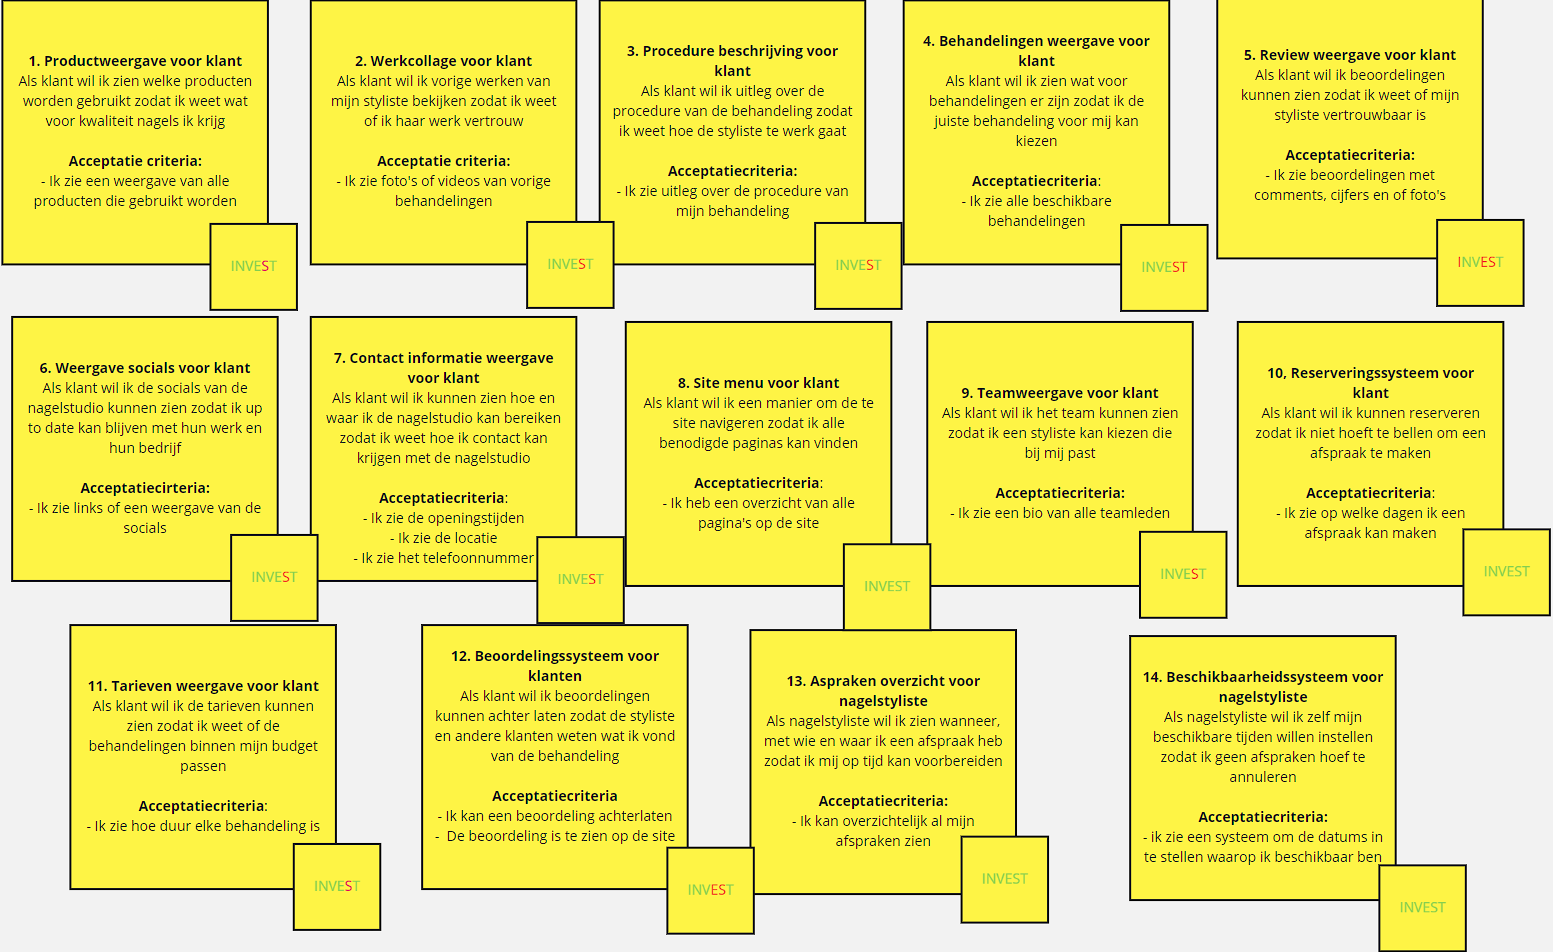
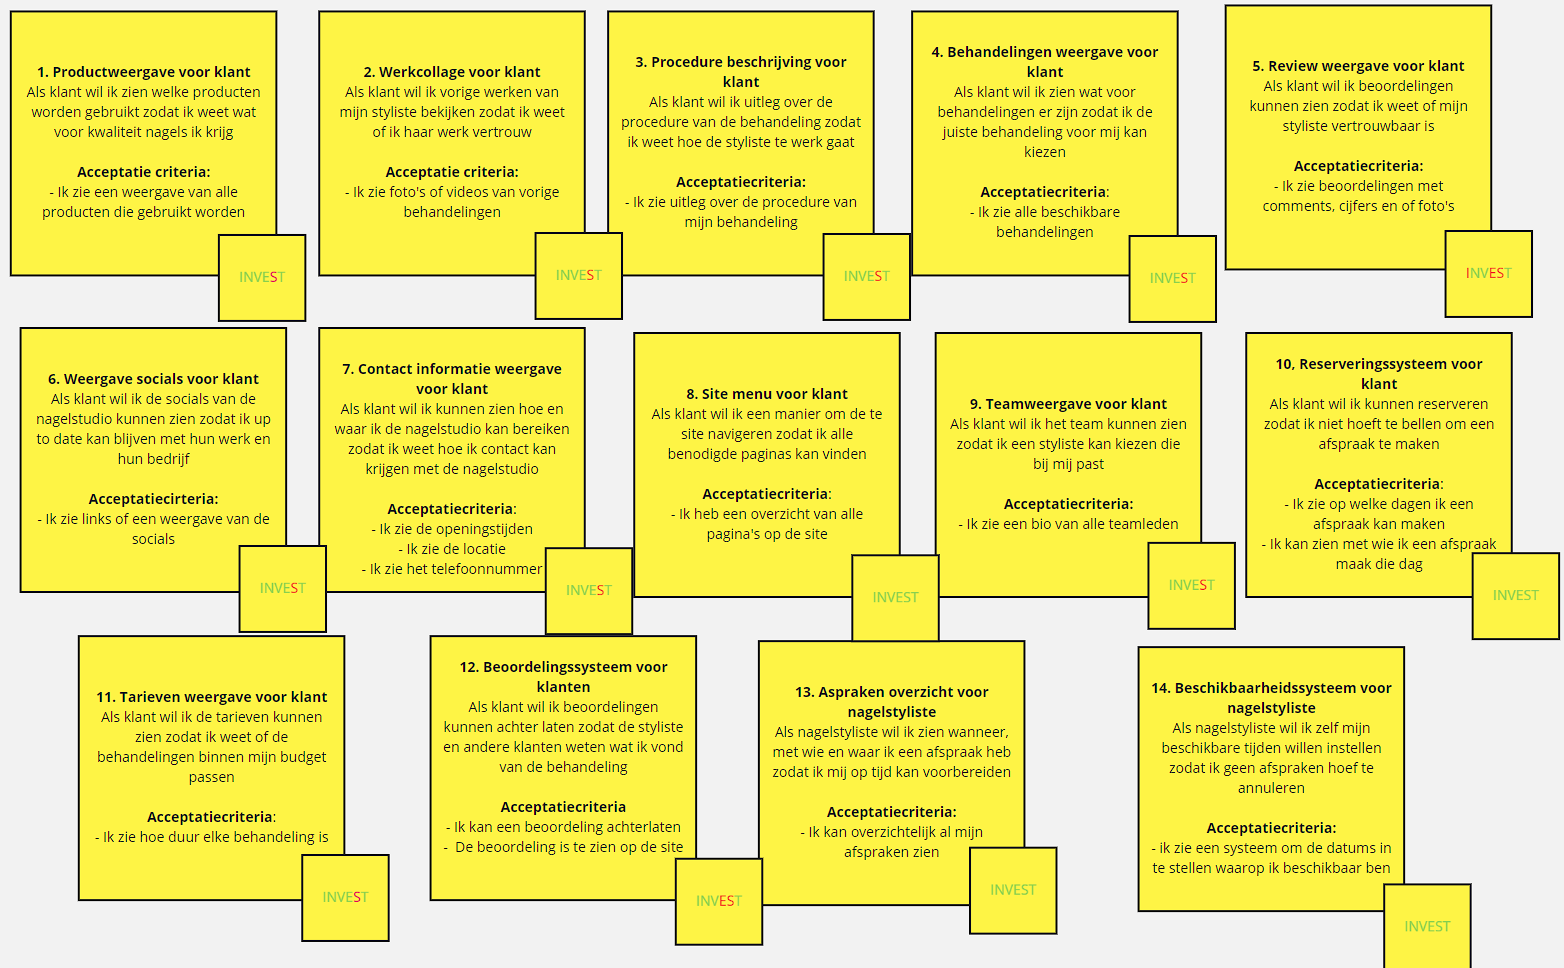
Sitemap

Changed region(s): [[0.0, 0.0, 1.0, 1.0], [0.7109, 0.8529, 0.9581, 1.0], [0.7418, 0.7006, 0.8963, 0.8225]]

diff --git a/new-interactie-ontwerpen/new-interactie-ontwerpen.md b/new-interactie-ontwerpen/new-interactie-ontwerpen.md
@@ -1,14 +1,45 @@
 # Interactie Ontwerpen
 ## User Stories
 ![User Stories](new-user-stories.png)
-Mijn user stories bevatten veel stories die te klein zij, het zijn geen dingen die de site per se nodig heeft om te werke. Maar ze zijn wel waardevol en zouden de gebruikservaring en de functionele waarde van de site verbeteren. Verder is er een story over een review systeem, onze groep heeft hier nog geen ervaring mee we kunnen dus niet inschatten hoelang het zou duren om zo een systeem te maken. Het maken van de site menu is geen kleine taak, omdat bij het maken van een goeie site menu er taken komen zoals een site map maken. 
+Mijn user stories bevatten veel stories die te klein zij, het zijn geen dingen die de site per se nodig heeft om te werke. Maar ze zijn wel waardevol en zouden de gebruikservaring en de functionele waarde van de site verbeteren. Ook zouden sommige van deze kleine user stories samengevoegd kunnen worden bijvoorbeeld zouden de procedure weergave en de behandelingen weergave één story kunnen worden omdat elke behandeling een andere procedure heeft, het kunnen zien van de procedure word dan een een DoD voor de story. Ook zie ik dit terug bij de socials story en de contact story maar ook de story van de behandelingen en de prijzen kunnen samengevoegd worden.
+![Behandeling user story en contact user story](verbeterde-stories.png) Verder is er een story over een review systeem, onze groep heeft hier nog geen ervaring mee we kunnen dus niet inschatten hoelang het zou duren om zo een systeem te maken. Het maken van de site menu is geen kleine taak, omdat bij het maken van een goeie site menu er taken komen zoals een site map maken. 
 ## MoSCoW
 |Must haves|Should Haves|Could Haves|Would Haves|
 |---|---|---|---|
-|8. Site menu voor klant |4. Behandeling weergave voor klant | 1. Productweergave voor klant|5. Review weergave vooor klant  |
-|10. Reserveringssysteem voor klant |7. Contact informatie weergave voor klant |2. Werkcollage voor klant | |
-|13. Afspraken overzicht voor nagelstyliste |11. Tarieven weergave voor klant |3. Procedure beschrijving voor klant | |
-|14. Beschikbaarheidssysteem voor nagelstyliste |  |6. Weergave socials voor klant ||
-| | |9. Teamweergave voor klant | |
-| | |12.Beoordelingssysteem klanten | |
+|8. Site menu voor klant | | 1. Productweergave voor klant|5. Review weergave vooor klant  |
+|10. Reserveringssysteem voor klant | |2. Werkcollage voor klant | |
+|13. Afspraken overzicht voor nagelstyliste | |9. Teamweergave voor klant | |
+|14. Beschikbaarheidssysteem voor nagelstyliste |  |12.Beoordelingssysteem klanten | |
+|4. Behandeling weergave voor klant | | | |
+|7. Contact informatie weergave voor klant | | | |
 ## Sitemap
+### Context
+Nelcey beauty is een nagelstudio die specialiseert in BIAB behandelingen. Er werken twee stylisten en er word gewerkt op twee locaties. Nelcey beauty is een net nieuw bedrijf. Ze hebben nog geen site en ze namen reserveringen aan via Instagram direct messages.  
+### Content
+Nelcey beauty beschikt momenteel alleen over een Instagram page, die de certificaten van de styliste toont. In de debriefing is wel duidelijk gemaakt de tone-of-voice van de site "gewoon"moet zijn. Nelcey beauty vind het ook belangrijk dat de site goed weergeeft dat je BIAB behandelingen kan doen bij hun.
+### Gebruikers
+Nelcey beauty focust zich op mensen die een BIAB behandeling willen voor hun nagels. Verder promoten ze de BIAB behandeling als een behandeling die voor gezonde en natuurlijke nagels zorgt. Mensen die dus ongezonde nagels hebben of hun nagels gezond willen houden zouden dus interesse hebben in een BIAB behandeling. Nelcey beauty wil dat je via de site bij hun een behandeling kan reserveren.
+### HIFI sitemap
+Ik was begonnen met de card sorting test zelf te doen maar heb het ook getest bij andere mensen omdat ik zelf niet van de doelgroep ben.
+- Dit zijn de kaarten voor de card sorting test
+![card sorting start](card-sorting-cards.png)
+- Dit is mijn lofi sitemap
+![LOFI sitemap Zino](lofi-sitemap-Zinopng.png)
+ bij het maken van deze sitemap heb ik de info die ik vind dat de klant het meest zou waarderen voordat ze een afspraak zouden willen boeken het meest links gezet zodat ze dat als eerste zien, daarna komt de overige info en contact als laatst omdat ik gewend ben om de contact sectie ergens helemaal rechts te zien,
+- mijn hifi sitemap (niet de final hifi sitemap)
+![HIFI sitemap](hifi-sitemap.png)
+- lofi sitemap van de card sorting test 1 (klik op de foto voor de video)
+[![lofi sitemap 1](cardsord-Gong.png)](https://youtu.be/ihewCyo9tvs)
+Uit deze card sorting test heb ik een heel ander perspectief gezien, voor deze gebruiker zou klinkt het logischer om het boeken te doen na het zien van de contact pagina. Verder vond hij dat previous works en reviews op dezelfde pagina konden. 
+- lofi sitemap van card sort test 2 (foto linkt weer naar een video)
+[![lofi sitemap 2](cardsort-stevie.png)](https://youtu.be/_9Hk4XDuk4U)
+ Deze card sort was gedaan met een medestudent zij heeft geen ervaring met naar een nagelstudio gaan maar ook uit deze test heb ik een nieuw perspectief gezien. Zij vond het dus interessant als je vanaf behandelingen kon zien welke teamleden die behandelingen deden en vanaf de team pagina kon zien wat voor werken elk team member had en vanaf daar naar de reviews.
+- lofi sitemap van card osrt test 3(video op foto)
+[![lofi sitemap 3](cardsort-justin.png)](https://youtu.be/Boffg_8zjdE)
+Bij deze card sort was er dus een focus ophet verkopen van de service.
+- Final hifi sitemap
+![final-hifi-sitemap.png](final-hifi-sitemap.png)
+Met alle info die ik heb verzameld van de tests is dit de hifi sitemap die ik heb gemaakt. Zo heb ik de behandelingen helemaal links gehouden en bijvoorbeeld het boeken van afspraken gezet onder contact. Als laatst heb ik de reviews en prevous workshops met elkaat gelinkt.
+
+
+
